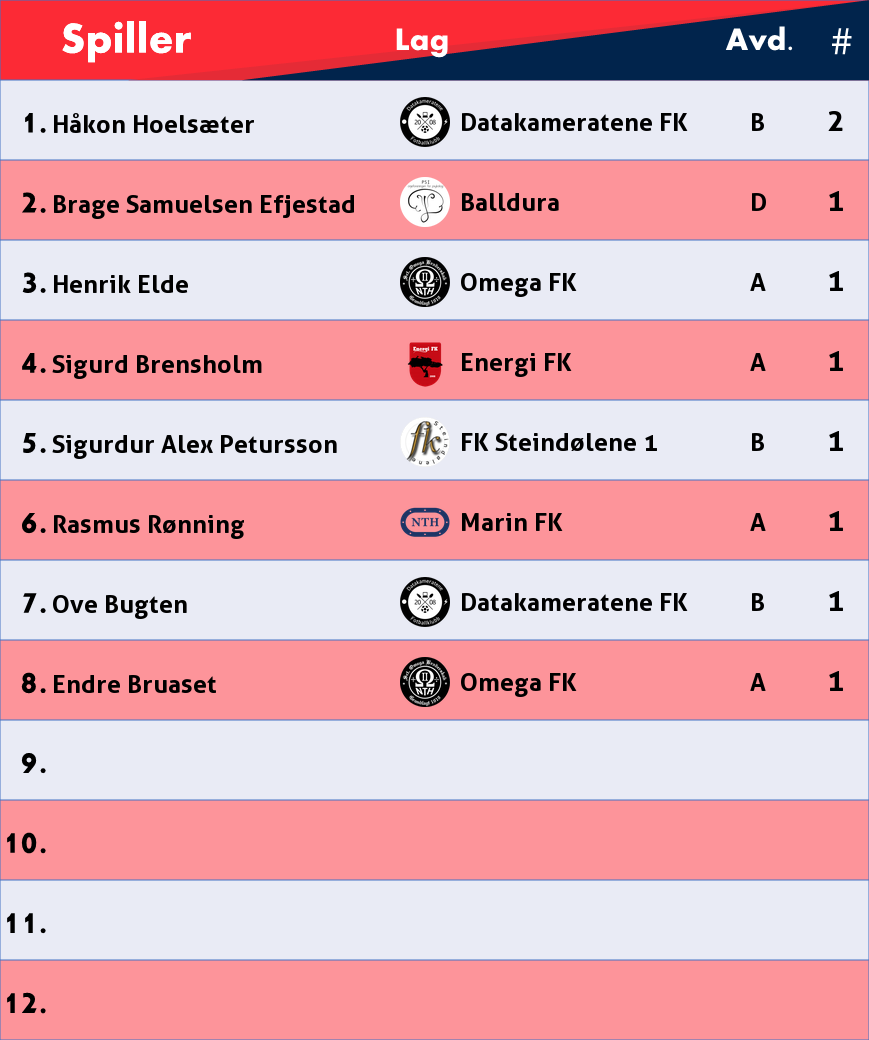
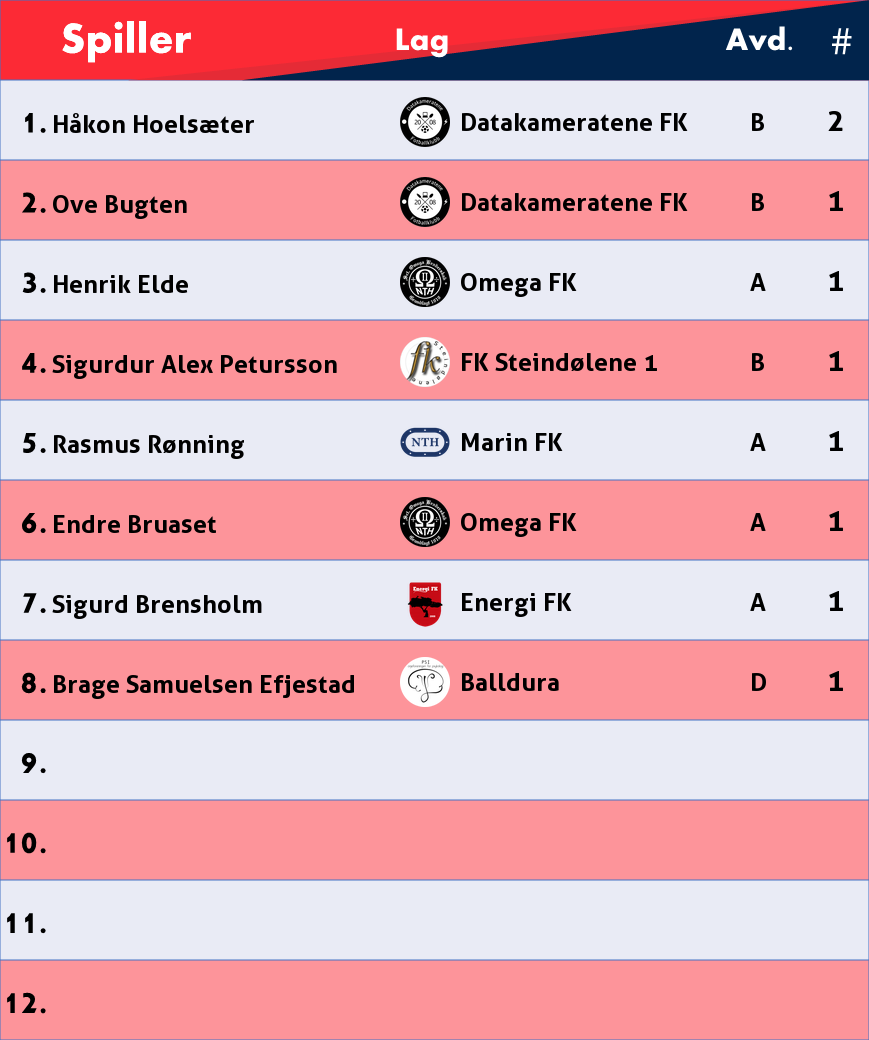
Updated table

diff --git a/Scripts/UpdateStats.py b/Scripts/UpdateStats.py
@@ -196,6 +196,7 @@ def getStats(data_raw: pd.DataFrame) -> dict:
 def createStats(index: int, stats: dict) -> pd.DataFrame:
     df = pd.DataFrame(stats)
     df = df.transpose()
+    df = df.sample(frac=1)
     df = df.sort_values(by=index, ascending=False)
     return df
 
